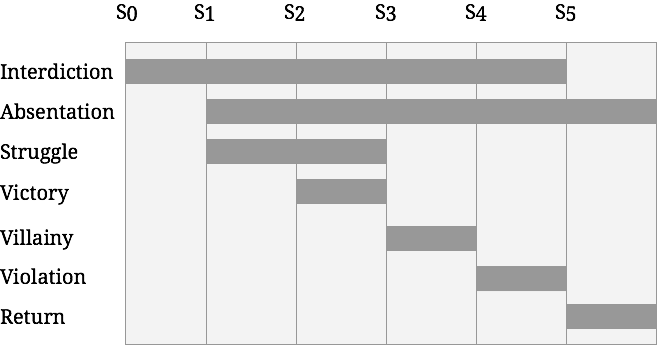
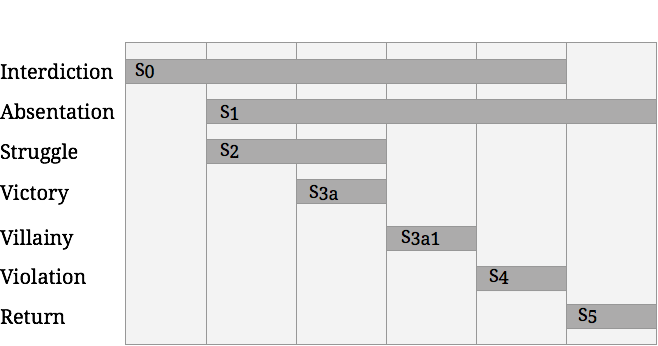
Most issues addressed

diff --git a/icids-2015.tex b/icids-2015.tex
@@ -54,7 +54,8 @@
 University of Bath, UK\\
 \email{\{m.r.thompson,j.a.padget\}@bath.ac.uk}
 \and
-Dept. Computer Science and Creative Technologies, UWE, Bristol, UK\\
+Dept. Computer Science and Creative Technologies,\\
+University of the West of England, Bristol, UK\\
 \email{steve.battle@uwe.ac.uk}}
 
 \maketitle
@@ -62,7 +63,7 @@ Dept. Computer Science and Creative Technologies, UWE, Bristol, UK\\
 
 
 \begin{abstract}
-  Authoring a consistent interactive narrative is difficult without exhaustively specifying all possible deviations from the main path of a story.
+Authoring a consistent interactive narrative is difficult without exhaustively specifying all possible deviations from the main path of a story. When automatically generating new story paths, it is important to be able to check these paths for consistency with the narrative world.
 We present a method of describing the fabula of a story as a Kripke structure using Interval Temporal Logic, allowing the syuzhet to be expressed as a traversal of the structure. This allows the model checking of each possible telling of the narrative for consistency with the story world, as well as the ability to construct re-usable story components at different levels of abstraction. This is the first step towards building a fully checkable framework for building story components using modal logic.
 \end{abstract}
 
@@ -168,14 +169,13 @@ The version of ITL used here is that described by Della Monica et al. in their o
 The operators defined by Halpern and Shoham are (a bar over an operator denotes its inverse):
 
 \begin{itemize}
-\item $\langle L \rangle / \langle \overline{L} \rangle$ (Later): Interval $A$ occurs at some point after interval $B$.
-\item $\langle A \rangle / \langle \overline{A} \rangle$ (After): Interval $A$ occurs immediately after interval $B$.
-\item $\langle O \rangle / \langle \overline{O} \rangle$ (Overlaps): Interval $A$ occurs both during and before or after interval $B$.
-\item $\langle E \rangle / \langle \overline{E} \rangle$ (Ends): Interval $A$ ends at exactly the same time as interval $B$.
-\item $\langle D \rangle / \langle \overline{D} \rangle$ (During): Interval $A$ both starts and ends inside the duration of interval $B$.
-\item $\langle B \rangle / \langle \overline{B} \rangle$ (Begins): Interval $A$ begins at exactly the same time as interval $B$.
+\item $\langle L \rangle / \langle \overline{L} \rangle$ (Later): The interval occurs at some point after another interval.
+\item $\langle A \rangle / \langle \overline{A} \rangle$ (After): The interval occurs immediately after another interval.
+\item $\langle O \rangle / \langle \overline{O} \rangle$ (Overlaps): The interval occurs both during and before or after another interval.
+\item $\langle E \rangle / \langle \overline{E} \rangle$ (Ends): The interval ends at exactly the same time as another interval.
+\item $\langle D \rangle / \langle \overline{D} \rangle$ (During): The interval both starts and ends inside the duration of another interval.
+\item $\langle B \rangle / \langle \overline{B} \rangle$ (Begins): The interval begins at exactly the same time as another interval.
 \end{itemize}
-\mnote{Actually put $A$ and $B$ into these! Improve the examples.}
 \mnote{Put a detailed explanation in here.}
 
 \mnote{Try to get higher res table or recreate it myself.}
@@ -228,29 +228,42 @@ Figure \ref{fig:situations} describes the full sausages scene from Punch and Jud
 \end{figure}
 
 
-One notable feature of this approach is that it enables the building of reusable story components. For example, we have said that an interdiction must begin with an absentation and ends with a violation (formula \ref{eq:interdiction}). This pattern can be reused in different stories, or several times in the same story. Additionally, it allows for the abstraction and combination of story components in a more expressive way than Propp's original story functions.\mnote{Elaborate a bit}
+One notable feature of this approach is that it enables the building of reusable story components. For example, we have said that an interdiction must begin with an absentation and ends with a violation (formula \ref{eq:interdiction}). This pattern can be reused in different stories, or several times in the same story. Additionally, it allows for the abstraction and combination of story components in a more expressive way than Propp's original story functions. This is because Propp only describes narrative events at one level of abstraction. For example, he describes stories as a series of events containing an interdiction followed by an absentation, followed by a violation. But there is no mechanism for combining these three functions into a higher-level component (which could be called ``Don't do that, or else!'', for example). Our approach makes such abstraction and recombination possible.
 
 \section{Describing Punch and Judy with Kripke Structures}\label{sec:kripke}
+\begin{figure}[!t]
+  \centering
+    \centerline{\includegraphics[width=1.0\textwidth]{kripke.png}}
+  \caption{One model from the sausages scene in LoTREC}\label{fig:lotrec}
+\end{figure}
 We use Kripke structures \cite{kripke1963semantical} as a method of interpreting the combination of modal logic with Interval Temporal Logic. A Kripke structure is a graph, the nodes of which represent a possible world consisting of a set of assertions, and the edges of which are the accessibility relations between worlds.
 
 \subsection{LoTREC}
 % Read the book
 In order to build and visualise the Kripke structures, we use LoTREC \cite{del2001lotrec}, a generic tableaux prover for modal and description logics. It allows the user to build up Kripke models using a domain specific language and display those models in the form of a graph diagram.
 LoTREC uses the tableau method for model checking. This method checks whether or not its input is satisfiable by attempting to build a model for it. If the model construction fails, then the input is unsatisfiable.
-Building models in LoTREC consists of defining \emph{connectors}, \emph{rules} and \emph{strategies}. Connectors are the logical operators used in formulas, rules are the instructions LoTREC needs to expand them into new nodes and edges and strategies are ways of combining rules in order to form premodels.\mnote{What's a premodel? How's it different from a model?}
+Building models in LoTREC consists of defining \emph{connectors}, \emph{rules} and \emph{strategies}. Connectors are the logical operators used in formulas, rules are the instructions LoTREC needs to expand them into new nodes and edges and strategies are ways of combining rules in order to form models.
+LoTREC takes an initial set of formulas as input and expands each formula into its components. These formulas are input using a simple prefix notation domain specific language consisting of operators and arguments, described in the LoTREC instruction book \emph{Kripke's Worlds} \cite{gasquet2013kripke}.
+In the expansion, if a $[\,]$ (necessary) operator is encountered, then the formulas that serve as its argument are propagated across to all subsequent nodes. In the case of a $\langle \, \rangle$ (possibility) operator, a new node (possible world) is created containing its arguments. In both cases, binary operators can be used where one argument is located inside the square or angle brackets. In these cases, the argument inside the brackets is the accessibility relation, and is used to label the edges leading to the subsequent nodes.
+In the case of a disjunction ($\lor$) operator, the current model is copied in its entirety and extended with one of the operator's arguments. The other argument is added onto the current model. This is an important way of creating alternative routes through the narrative, all of which can be checked for consistency.
 
 \subsection{The Sausages Scene in LoTREC}
-\begin{figure}[!t]
-  \centering
-    \centerline{\includegraphics[width=1.0\textwidth]{kripke.png}}
-  \caption{One premodel from the sausages scene in LoTREC}\label{fig:lotrec}
-\end{figure}
 
-Using the initial formulas from figure \ref{fig:situations} as input, figure \ref{fig:lotrec} shows the premodel for the case where Punch wins the fight with the crocodile. One other premodel exists in this scenario, in which the crocodile is instead the victor.
+Using the initial formulas from figure \ref{fig:situations} as input, figure \ref{fig:lotrec} shows the model for the case where Punch wins the fight with the crocodile. One other model exists in this scenario, in which the crocodile is instead the victor.
 
-LoTREC takes this input and expands each formula into its components. If a $[\,]$ (necessary) operator is encountered, then the formulas that serve as its argument are propagated across to all subsequent nodes. In the case of a $\langle \, \rangle$ (possibility) operator, a new node (possible world) is created containing its arguments. In both cases, binary operators can be used where one argument is located inside the square or angle brackets. In these cases, the argument inside the brackets is the accessibility relation, and is used to label the edges leading to the subsequent nodes.
+The example in figure \ref{fig:lotrec} describes the fabula of a branching story, where either Punch or the Crocodile may win the fight for the sausages. This corresponds to the disjunction in figure \ref{fig:situations}, formula \ref{eq:struggle}. This leads to the creation of two models: the one in which the Crocodile wins and then goes on to eat the sausages (situation $@S_{3a}$), and the one in which Punch wins (situation $@S_{3b}$).
 
-The example in figure \ref{fig:lotrec} describes the fabulas of a story with several branching points, where either Punch or the Crocodile may win the fight for the sausages. This corresponds to the disjunction in figure \ref{fig:situations}, formula \ref{eq:struggle}. This leads to the creation of two premodels: the one in which the Crocodile wins and then goes on to eat the sausages (situation $@S_{3a}$), and the one in which Punch wins (situation $@S_{3b}$).
+The first node contains the logical description of the story, which is then unpacked into subsequent nodes. It starts with the initial situation, $S_0$, which contains an interdiction: $\mathit{interdiction(Joey, Punch, Sausages)}$, where Joey tells Punch to look after the sausages. The other situations, $S_1$ to $S_5$ are listed using the necessity operator, with their accessibility relations being each situation's nominal operator (such as $@S_1$). This means that these situations are all created as new nodes, linked to the root node using their nominal accessibility relation, and so can be referred to later using the nominal operator. In this way, situations can refer to other situations.
+
+For example, in Propp's formalism, an interdiction must begin with the absentation of a character and end with the interdiction's violation. For this reason, the initial situation is connected to $@S_1$, ($\mathit{absentation(Joey)}$), with the $\langle B \rangle$ (begins) accessibility relation and to $@S_4$, ($\mathit{violation(Punch, Sausages)}$), with the $\langle E \rangle$ (ends) accessibility relation. As other situations are unpacked into nodes, they are linked to other situations in the same way. An example of this is shown in $S_1$, the absentation, which must end with Joey's return, $S_5$, and during which a struggle must occur ($S_2$). As the formulas inside $S_1$ are unpacked, $S_1$ is linked to the other situations with the appropriate temporal accessibility relations. This is all made possible with the hybrid logic, which allows nodes to be referred to by name and linked to.
+
+By describing situations that are linked together with temporal relations, we can build narratives and check them as we go. If a narrative is inconsistent in some way (by stating that a character is both dead and alive, for example), then the model will be unsatisfiable. This is useful for ensuring the construction of consistent narratives.
+
+Additionally, every time a story has the possibility of branching off, the model for each new branch can be checked to see if it is viable in the narrative world. This means that rather than relying on an author to write out each branch of a story, they can be generated automatically from a story description and checked for inconsistencies.
+
+As mentioned previously, the combination of Interval Temporal Logic and a narrative formalism such as Propp's allows us to create abstracted story components. For example, we have described the interdiction as being started by an absentation and ended with a violation. This pattern can be called the ``interdiction pattern'', and so can be easily reused in other narratives.
+
+The use of LoTREC has shown the utility of being able to visualise a branching narrative in its entirety. This suggests that our method enables the visual authoring of interactive narratives by non-technical creators. Rather than having to type in computer code, or logical formulas, a visual tool could be developed to create logically consistent narrative worlds.
 
 \section{Conclusions and Future Work}
 This paper demonstrates the use of interval temporal logic for the construction of non-linear narratives. The advantages of this approach are that it enables an author to create re-usable story components at various levels of abstraction. It also allows for the model-checking of a proposed narrative of subset of a narrative to see if it fits with an author's model of a narrative world.
